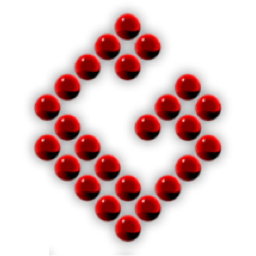
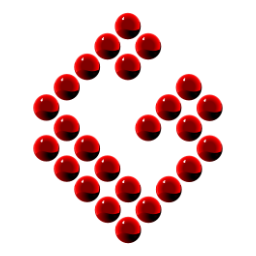
Fix typos and prepare for the marketplace

Changed region(s): [[0.0938, 0.0312, 0.9062, 0.9688]]

diff --git a/README.md b/README.md
@@ -1,16 +1,22 @@
-# gobstones README
+# Gobstones Language Support
 
-This extension provides basic language support for the Gobstones didactical programming language.
+This extension provides basic language support for the Gobstones didactic programming language.
 
 For information on the language please visit
 [https://gobstones.github.io](https://gobstones.github.io)
 
 ## Features
 
-This extension provides basic syntax highlighting for keywords as well as code snippets for most of the common constructions of the language. Brace matching and code folding is also supported.
+This extension provides syntax highlighting for gobstones keywords as well as code snippets for most of the common constructions of the language. Brace matching and code folding is also supported.
 
 ## Release Notes
 
-### 1.0.0
+See the changelog to what has changed over the different versions of the extension. Here you have only a short list of mayor versions.
 
-Initial release of the extension.
+#### 1.0.0
+
+Initial release of the extension
+
+## Licence
+
+[MIT Licence](https://github.com/alanrodas/vscode-gobstones/blob/master/LICENCE)

diff --git a/CHANGELOG.md b/CHANGELOG.md
@@ -1,7 +1,11 @@
 # Change Log
-All notable changes to the "gobstones" extension will be documented in this file.
-
-Check [Keep a Changelog](http://keepachangelog.com/) for recommendations on how to structure this file.
 
 ## [1.0.0]
-- Initial release (by alanrodas)
+- Initial release of the extension
+- Syntax highlighting
+- Brace matching
+- Snippets for common constructs and keywords
+## [1.0.1]
+- Fix typos in package.json
+- Fix logo so it looks nice in marketplace
+- Fix README typos
